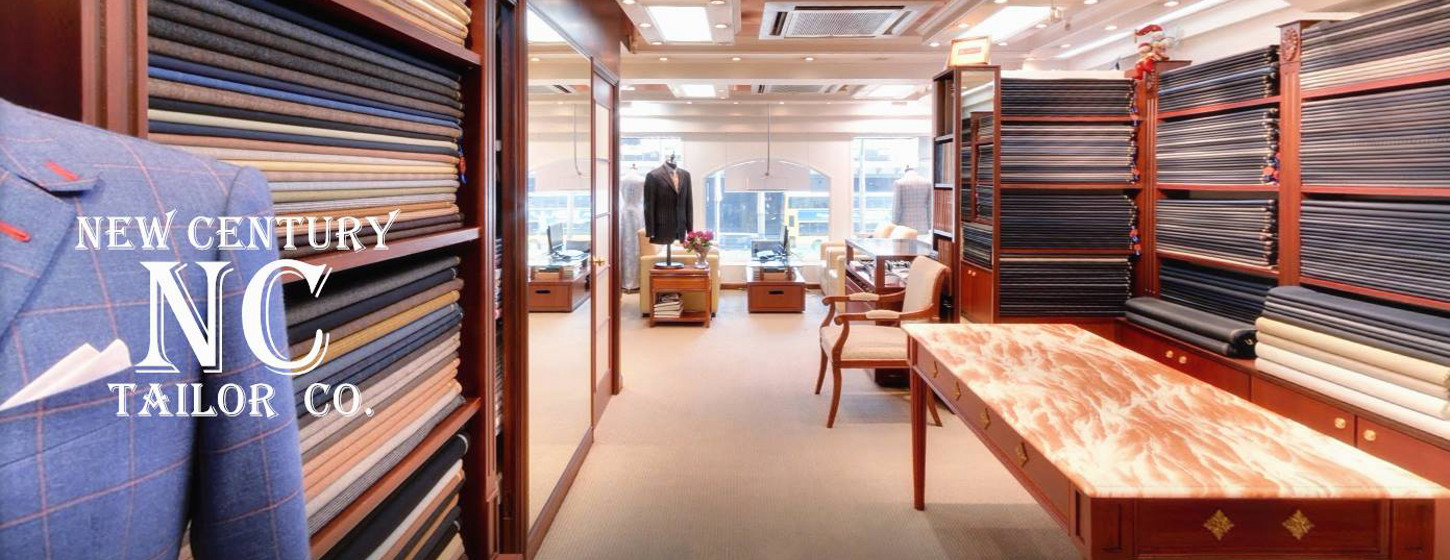
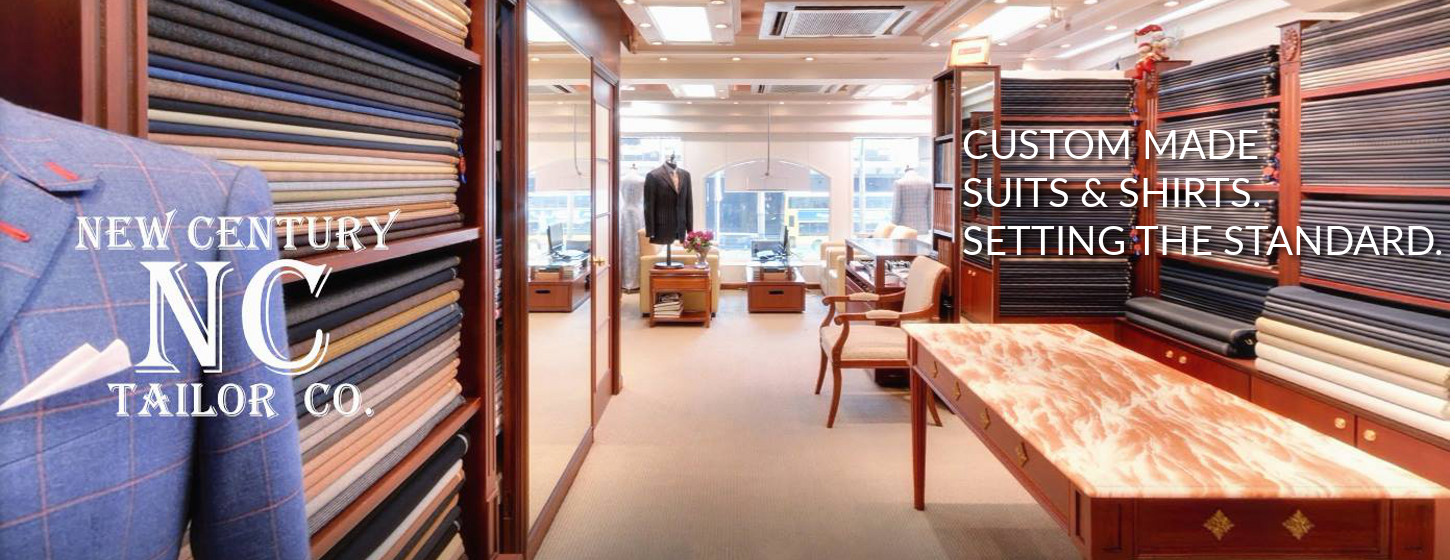
changes

diff --git a/application/views/home.php b/application/views/home.php
@@ -78,9 +78,7 @@ $this->load->view('layout/header');
                 <img src="<?php echo base_url(); ?>assets/theme/slider/2bbb.jpg" alt="" data-bgfit="cover" data-bgposition="center center">
                                <div class="caption lfb ltb" data-x="left" data-x="700" data-y="bottom" data-hoffset="-118" data-speed="600"><img src="<?php echo base_url(); ?>assets/theme/slider/suit_trans1.png" alt=""></div>
 
-                <div class="caption sfl hide_from_mobile str" data-x="700" data-y="109" data-speed="700" data-start="1500"><h1 class="color_dark fw_medium  text_padding_10" style="font-size: 34px;">CUSTOM MADE SUITS & SHIRTS.
-                        <br>SETTING THE STANDARD.</h1></div>
-                <div class="caption sfl fw_medium hide_from_mobile str color_dark" data-x="730" data-y="244" data-speed="700" data-start="1700">Specializing in bespoke and made-to-measure <br/>apparel and alterations for men</div>
+      
                 
             </li>
             <li data-transition="fade" data-slotamount="10">
@@ -93,8 +91,30 @@ $this->load->view('layout/header');
             </li>
 
 
+            <li data-transition="fade" data-slotamount="10">
+                <img src="<?php echo base_url(); ?>assets/theme/slider/10.jpg" alt="" data-bgfit="cover" data-bgposition="center center">
+                <div class="caption sfl hide_from_mobile str" data-x="10" data-y="109" data-speed="700" data-start="1500"><h1 class="color_black fw_light  text_padding_10" style="font-size: 34px;">CUSTOM MADE SUITS & SHIRTS.
+                        <br>SETTING THE STANDARD.</h1></div>
+                <div class="caption sfl hide_from_mobile str color_black" data-x="20" data-y="244" data-speed="700" data-start="1700">We provide the highest craftsmanship to <br/>our valuable customers with reasonable price.</div>
             
+            </li>
+            
+            
+            <li data-transition="fade" data-slotamount="10">
+                <img src="<?php echo base_url(); ?>assets/theme/slider/15.jpg" alt="" data-bgfit="cover" data-bgposition="center center">
+                <div class="caption sfl hide_from_mobile str" data-x="left" data-y="98" data-speed="700"><h1 class="color_dark fw_light" style="font-size: 34px;">PREMIER <br/>MADE-TO-MEASURE CLOTHING</h1></div>
+                <div class="caption sfl hide_from_mobile str color_dark" data-x="left" data-y="200" data-speed="700" data-start="1200"> Best high end tailoring shop in <br/>Hong Kong.</div>
+               
+            </li>
+            
+            <li data-transition="fade" data-slotamount="10">
+                <img src="<?php echo base_url(); ?>assets/theme/slider/18.jpg" alt="" data-bgfit="cover" data-bgposition="center center">
 
+                <div class="caption sfl hide_from_mobile str" data-x="10" data-y="109" data-speed="700" data-start="1500"><h1 class="color_dark fw_medium  text_padding_10" style="font-size: 34px;">CUSTOM MADE SUITS & SHIRTS.
+                        <br>SETTING THE STANDARD.</h1></div>
+                <div class="caption sfl fw_medium hide_from_mobile str color_dark" data-x="10" data-y="244" data-speed="700" data-start="1700">Specializing in bespoke and made-to-measure <br/>apparel and alterations for men</div>
+                
+            </li>
             
             
             
@@ -112,9 +132,9 @@ $this->load->view('layout/header');
             <li data-transition="fade" data-slotamount="10">
                 <img src="<?php echo base_url(); ?>assets/theme/slider/2bbbb.jpg" alt="" data-bgfit="cover" data-bgposition="center center">
                 <div class="caption lfb ltb" data-x="left" data-y="bottom" data-hoffset="-118" data-speed="600"><img src="<?php echo base_url(); ?>assets/theme/slider/suit_trans1.png" alt=""></div>
-                <div class="caption sfl hide_from_mobile str" data-x="700" data-y="109" data-speed="700" data-start="1500"><h1 class="color_dark fw_medium  text_padding_10" style="font-size: 34px;">CUSTOM MADE SUITS & SHIRTS.
+                <div class="caption sfl hide_from_mobile str" data-x="700" data-y="109" data-speed="700" data-start="1500"><h1 class="color_light fw_medium  text_padding_10" style="font-size: 34px;">CUSTOM MADE SUITS & SHIRTS.
                         <br>SETTING THE STANDARD.</h1></div>
-                <div class="caption sfl hide_from_mobile fw_medium str color_dark" data-x="700" data-y="244" data-speed="700" data-start="1700">Specializing in bespoke and made-to-measure <br/>apparel and alterations for men</div>
+                <div class="caption sfl hide_from_mobile fw_medium str color_light" data-x="700" data-y="244" data-speed="700" data-start="1700">Specializing in bespoke and made-to-measure <br/>apparel and alterations for men</div>
                 
             </li>
             
@@ -128,15 +148,7 @@ $this->load->view('layout/header');
             </li>
 
 
-            <li data-transition="fade" data-slotamount="10">
-                <img src="<?php echo base_url(); ?>assets/theme/slider/10.jpg" alt="" data-bgfit="cover" data-bgposition="center center">
-                <div class="caption sfl hide_from_mobile str" data-x="10" data-y="109" data-speed="700" data-start="1500"><h1 class="color_black fw_light  text_padding_10" style="font-size: 34px;">CUSTOM MADE SUITS & SHIRTS.
-                        <br>SETTING THE STANDARD.</h1></div>
-                <div class="caption sfl hide_from_mobile str color_black" data-x="20" data-y="244" data-speed="700" data-start="1700">We provide the highest craftsmanship to <br/>our valuable customers with reasonable price.</div>
-                <div class="caption sfl hide_from_mobile str" data-x="20" data-y="339" data-speed="700" data-start="1900">
-                    <a href="#" role="button" class="tt_uppercase button_type_3 color_light r_corners fs_medium d_block tr_all" >Customize Now!</a>
-                </div>
-            </li>
+            
             
 
 
